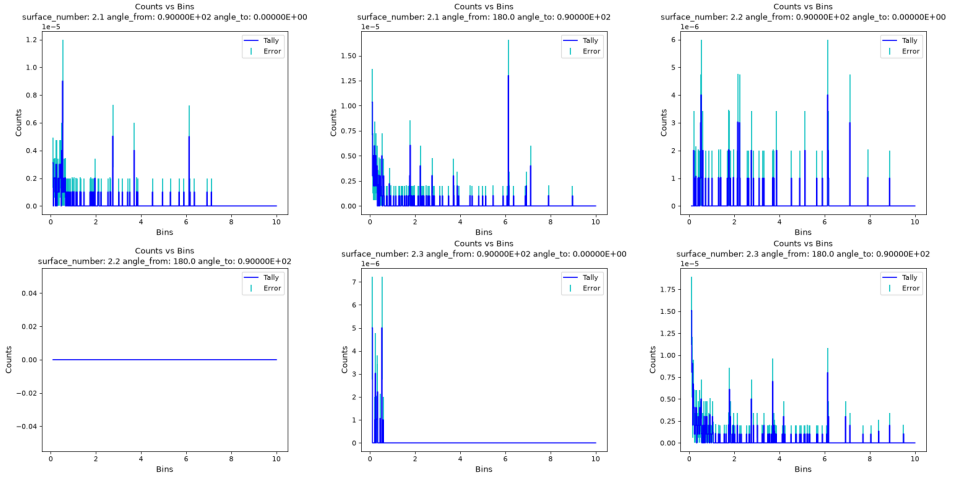
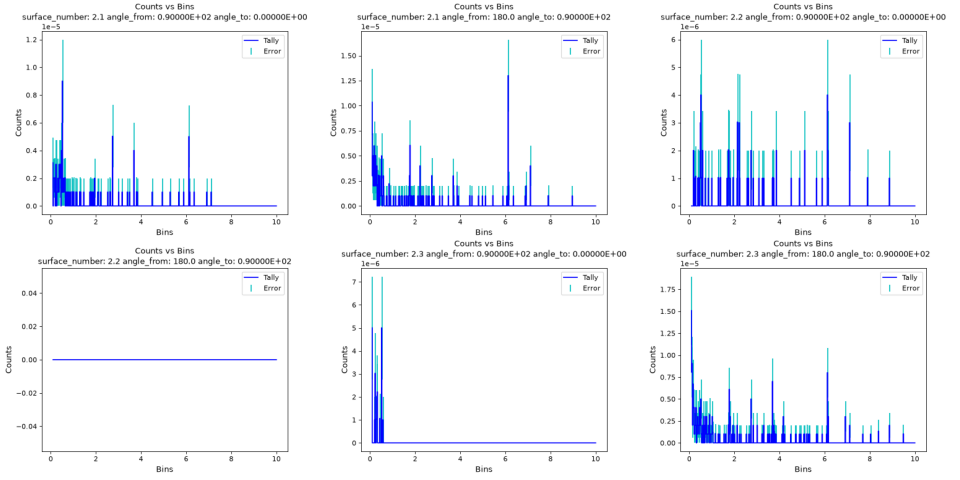
plot: draw OUTP bins up to their upper edge
where='pre' instead of 'mid'; docs image do_plot.png regenerated.

diff --git a/tests/test_pymcnp/test_Plot.py b/tests/test_pymcnp/test_Plot.py
@@ -41,3 +41,14 @@ class Test_Plot:
         with pytest.raises(pymcnp.abc.Error, match='Tally not found'):
             plotter.to_show(outp, '23423432')
         assert len(plotter.to_show(outp, 21)) > 0
+
+
+def test_energy_bins_are_upper_edges(tmp_path: pathlib.Path) -> None:
+    # OUTP energy bins are upper bin edges, so each value is drawn from the previous edge up to its own edge.
+    outp, _ = pymcnp.Outp.from_file(pathlib.Path(__file__).parent.parent.parent / 'files' / 'outp' / 'valid_38.outp')
+    (figure, *_) = pymcnp.Plot().to_show(outp, 1)
+    (line,) = [line for line in figure.axes[0].get_lines() if line.get_label() == 'Tally']
+    assert line.get_drawstyle() == 'steps-pre'
+    x, y = line.get_xydata().T
+    # The steps are drawn at the bins themselves, one group of increasing energies per figure.
+    assert 1 < len(x) < len(outp.tally(1)) and set(x) <= set(outp.tally(1)['bins']) and all(x[1:] > x[:-1])

diff --git a/src/pymcnp/Plot.py b/src/pymcnp/Plot.py
@@ -60,7 +60,7 @@ class Plot(abc.Utility):
             )
             ax.set_xlabel('Bins', fontsize=12)
             ax.set_ylabel('Counts', fontsize=12)
-            ax.step(subtally['bins'], subtally['counts'], color='blue', where='mid', zorder=2, label='Tally')
+            ax.step(subtally['bins'], subtally['counts'], color='blue', where='pre', zorder=2, label='Tally')
             ax.legend()
 
             figures.append(fig)

diff --git a/CHANGELOG.md b/CHANGELOG.md
@@ -79,6 +79,7 @@ and this project adheres to [Semantic Versioning](https://semver.org/spec/v2.0.0
 - `Inp` and `Check` expanded shorthand-like words in the free text of `fc` and `sc` cards, e.g., `sc1 source 2r here` became `sc1 source source source here`; the text of these cards and their continuation lines is now kept as written.
 - The docstrings of `data.F_0`, `F_1` and `F_2` and of `Cell_0`, `Cell_1` and `Cell_2` say which MCNP form each is, e.g., `F_1` is the F5 point detector and `Cell_1` a void cell, and `F_0` lists its `t` field.
 - `from pymcnp import *` imported the private `_cli` and `_show` modules, and `pymcnp.importlib` was a public name.
+- `Plot` and `pymcnp plot` drew each tally value centred on its energy bin, half a bin too low; OUTP bins are upper bin edges, so each value is now drawn from the previous edge up to its own.
 - Tests no longer write files into the repository.
 
 ## [0.10.0] - 2026-10-15
